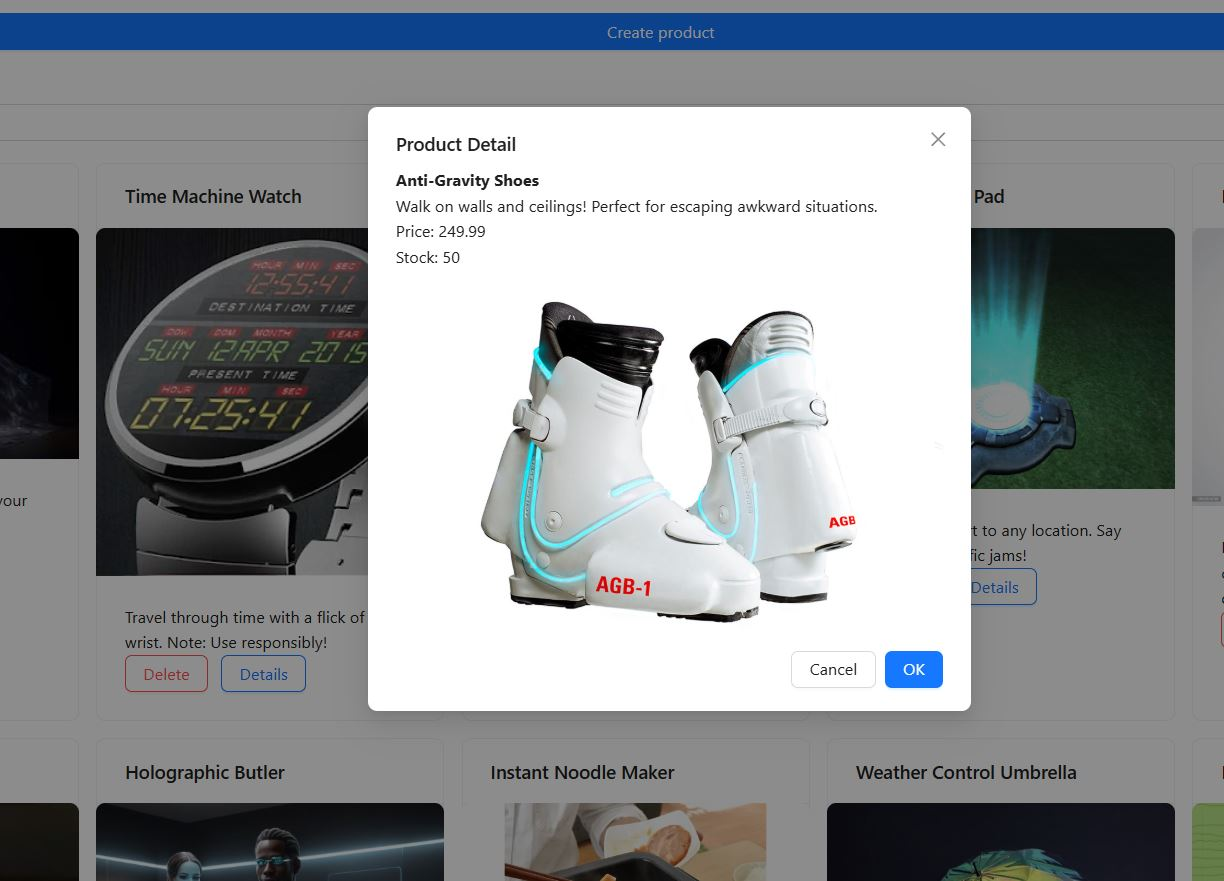
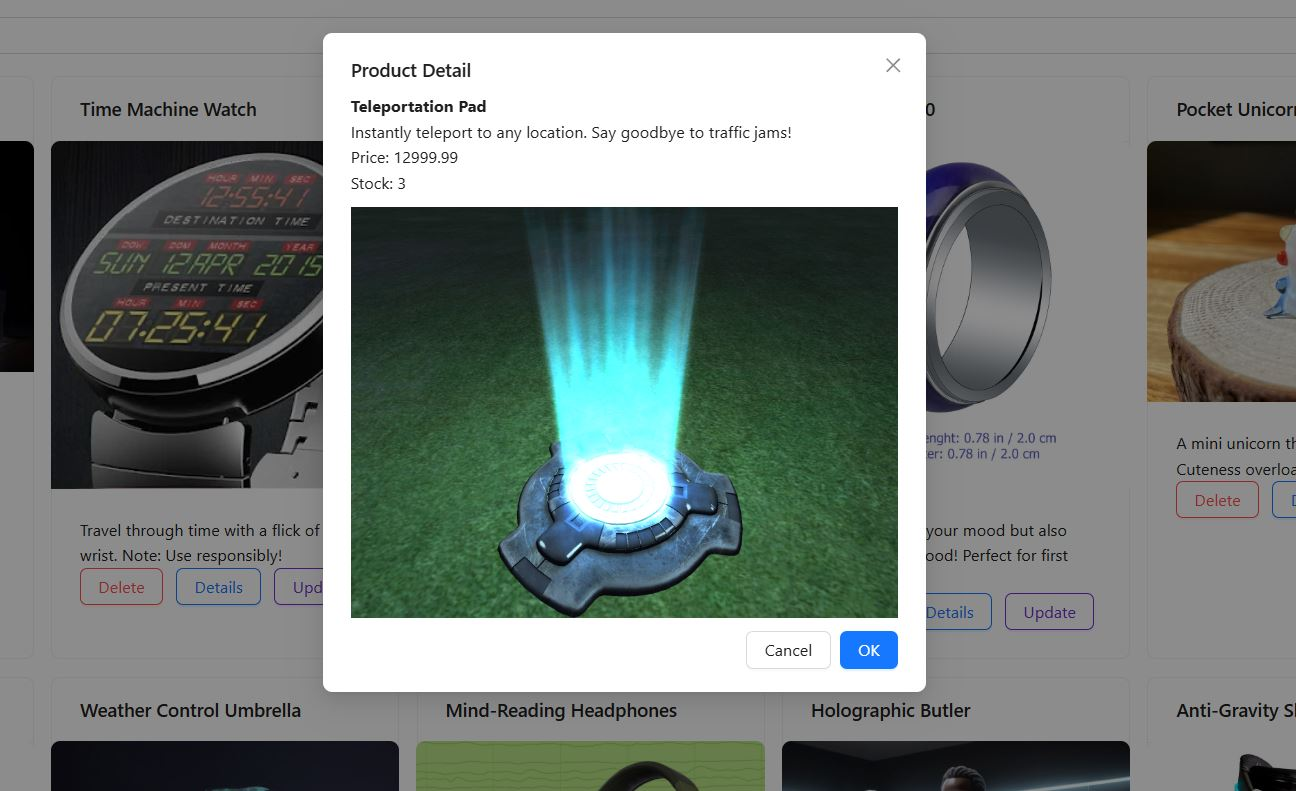
chore: changed readme (added update)

diff --git a/README.md b/README.md
@@ -82,3 +82,7 @@ If you enter incorrect values - errors will be displayed
 Product successfully created!
 
 ![created](images_for_readme/created.JPG)
+
+We can update product detail:
+
+![list](images_for_readme/update.JPG)
